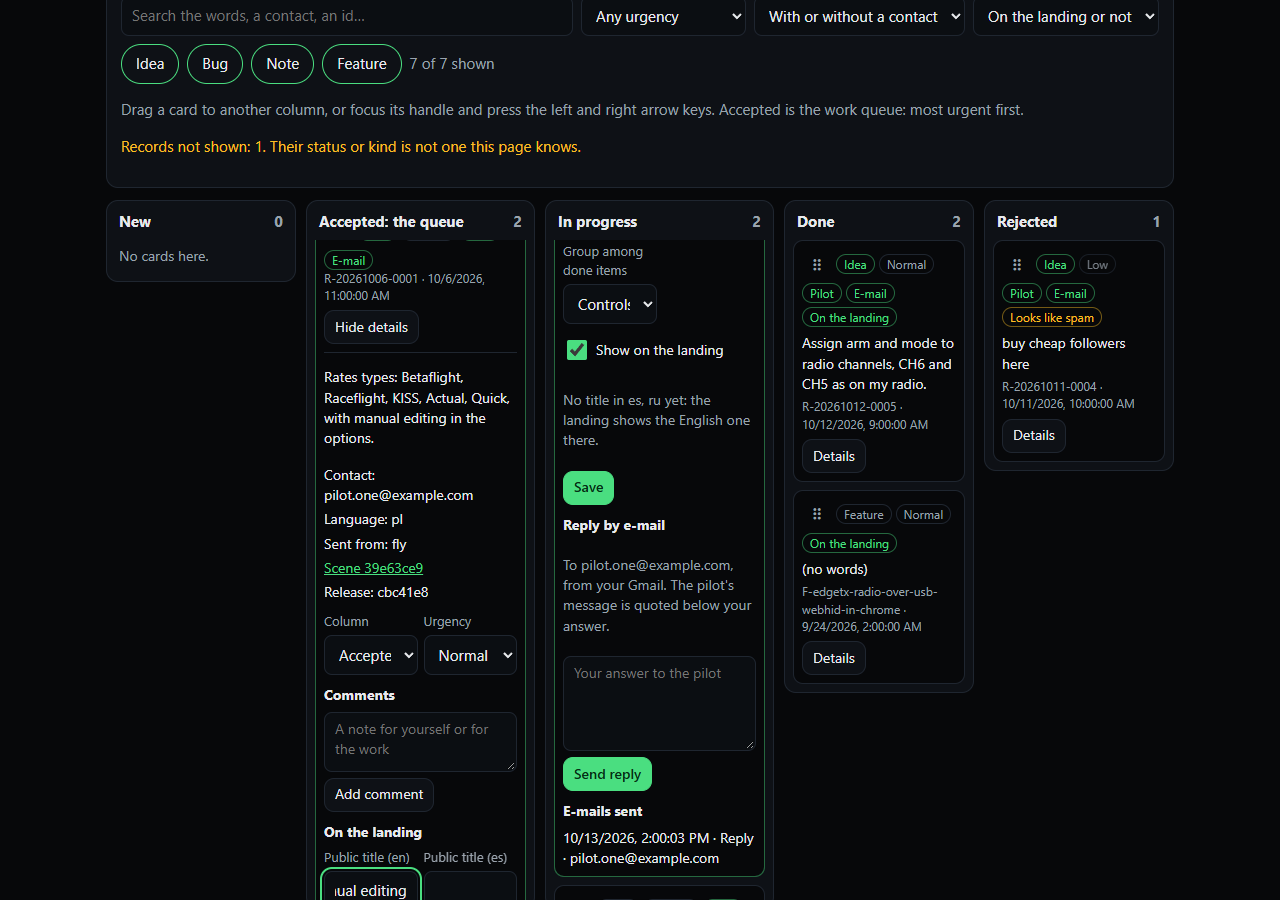
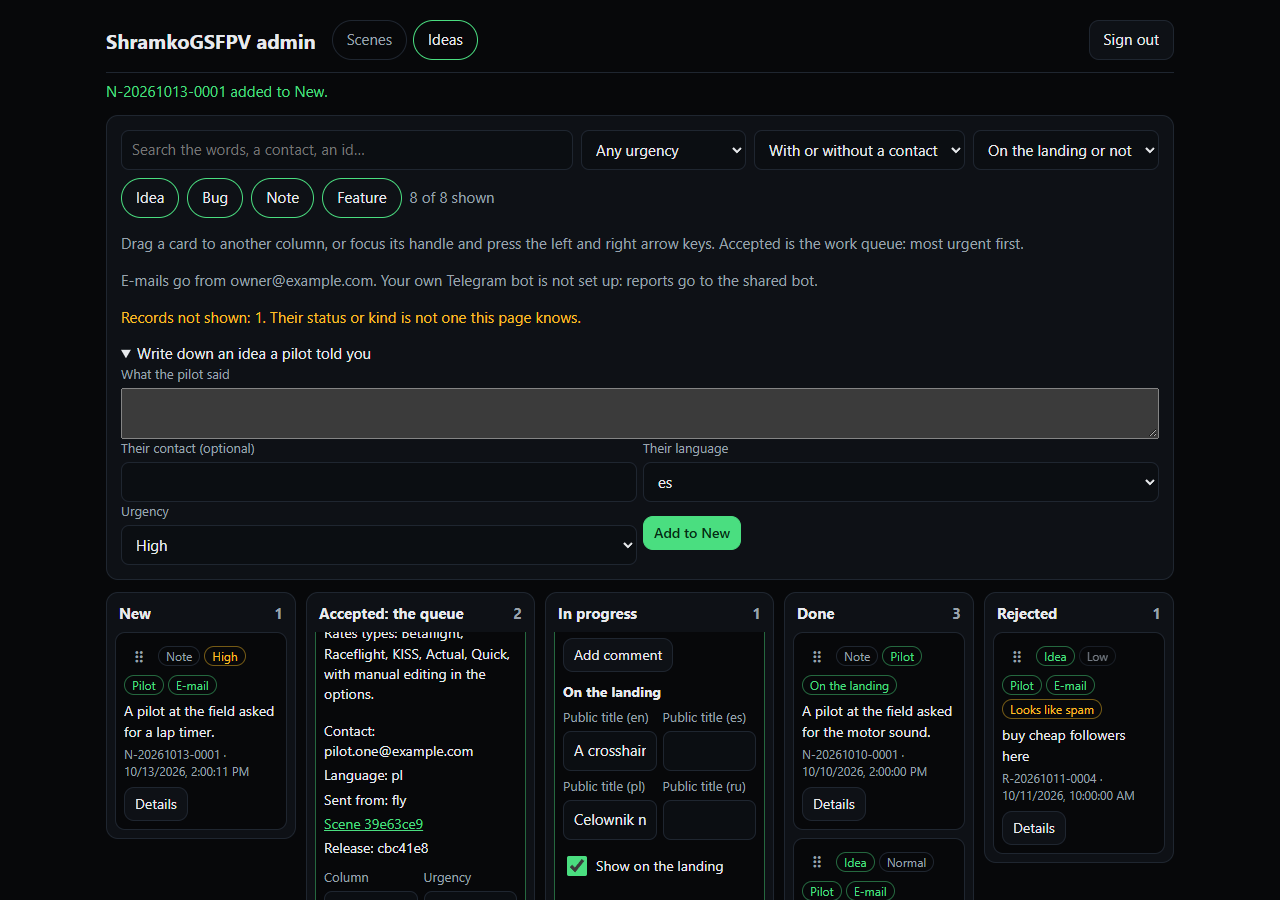
admin Ideas tab in a browser against lane B's real API (mock): drag, arrows and the Column select send ideas/update; Done asks what was done, ideas/done makes the draft, Not now leaves it a draft, only Send queues it (send-done); reply queued then Cancel; note form; landing chip and English-title ru

diff --git a/tools/bench/src/accept-v07-ideas.ts b/tools/bench/src/accept-v07-ideas.ts
@@ -1,10 +1,12 @@
 // v0.7 owner's item 3, the admin side, end to end in a browser: the admin page (apps/fly/admin on the Vite
 // dev server, started here) with /api/** answered by the mock of lane B's ideas API (src/ideas-mock.ts,
-// the contract of docs/wip/v07-c.md). What the owner does on the kanban must reach the API as exactly
-// the calls the contract names, and nothing else; every check has a negative control.
+// the contract of docs/wip/v07-b.md "Contracts for lane C"). What the owner does on the kanban must reach
+// the API as exactly the calls the contract names, and nothing else: above all, no e-mail is queued
+// without the owner's own Send (the thank-you) or reply button, and every check has a negative control.
 //   npx tsx src/accept-v07-ideas.ts                      (from tools/bench; FLY_PORT=5364 by default)
-// No GPU needed (no drawing). Evidence: evidence/<date>/v07-ideas-admin.json + 2 PNG.
-// Not covered here: lane B's real server (run accept-v06-admin.ts after the v0.7 merge for that).
+// Draws nothing heavy, but holds the shared GPU lock like every browser run on this PC (the caller takes
+// it). Evidence: evidence/<date>/v07-ideas-admin.json + 2 PNG.
+// Not covered here: lane B's real server (accept-v06-admin.ts drives the Ideas tab against it after the merge).
 import { spawn } from 'node:child_process';
 import type { ChildProcess } from 'node:child_process';
 import { mkdirSync } from 'node:fs';
@@ -25,6 +27,14 @@ function check(name: string, ok: boolean, control = false): void {
     checks.push({ name, ok, control });
     console.log(`${ok ? 'ok  ' : 'FAIL'} ${control ? '[control] ' : ''}${name}`);
 }
+
+/** JSON with object keys sorted, so a body is compared by its content, not by the order it was built in. */
+function canon(v: unknown): string {
+    const sort = (x: unknown): unknown => (Array.isArray(x) ? x.map(sort)
+        : x && typeof x === 'object' ? Object.fromEntries(Object.entries(x as Record<string, unknown>).sort(([a], [b]) => a.localeCompare(b)).map(([k, y]) => [k, sort(y)])) : x);
+    return JSON.stringify(sort(v));
+}
+const same = (a: unknown, b: unknown): boolean => canon(a) === canon(b);
 
 async function until(url: string, ms = 60000): Promise<void> {
     const t0 = Date.now();
@@ -53,6 +63,9 @@ const card = (id: string): string => `[data-idea="${id}"]`;
 const statusOf = (page: Page, id: string): Promise<string | null> => page.$eval(card(id), (e) => e.getAttribute('data-status')).catch(() => null);
 const counts = (page: Page): Promise<Record<string, string>> =>
     page.$$eval('[data-count]', (els) => Object.fromEntries(els.map((e) => [e.getAttribute('data-count') ?? '', e.textContent ?? ''])));
+const ids = (page: Page): Promise<(string | null)[]> => page.$$eval('[data-idea]', (els) => els.map((e) => e.getAttribute('data-idea')));
+/** POSTs to ideas routes since `from`, as [path, body] */
+const sentSince = (mock: IdeasMock, from: number): [string, unknown][] => mock.posts().slice(from).map((c) => [c.path, c.body]);
 /** wait until the mock has seen n POSTs to ideas routes */
 async function posts(mock: IdeasMock, n: number, ms = 10000): Promise<void> {
     const t0 = Date.now();
@@ -64,6 +77,9 @@ async function posts(mock: IdeasMock, n: number, ms = 10000): Promise<void> {
 /** wait until the card sits in that column and is no longer busy */
 const settled = (page: Page, id: string, status: string): Promise<unknown> =>
     page.waitForSelector(`${card(id)}[data-status="${status}"]:not([aria-busy])`, { timeout: 10000 });
+const quiet = (page: Page, id: string): Promise<unknown> => page.waitForSelector(`${card(id)}:not([aria-busy])`, { timeout: 10000 });
+const dialogStep = (page: Page): Promise<string | null> =>
+    page.evaluate(() => document.querySelector('[data-testid=thanks-dialog] [data-step]:not([hidden])')?.getAttribute('data-step') ?? null);
 
 async function main(): Promise<void> {
     const dir = join(REPO, 'evidence', today());
@@ -89,17 +105,17 @@ async function main(): Promise<void> {
     await page.waitForSelector('[data-testid=idea-board] [data-idea]');
     const c0 = await counts(page);
     results.countsAtStart = c0;
-    check('five columns with their counts (New 2, Accepted 1, In progress 2, Done 1, Rejected 1)', JSON.stringify(c0) === JSON.stringify({ new: '2', accepted: '1', in_progress: '2', done: '1', rejected: '1' }));
-    check('the record with an unknown status is counted, not placed', (await page.textContent('[data-testid=idea-unreadable]'))?.includes('1') === true && !(await page.$(card('X-unknown-status'))));
+    check('five columns with their counts (New 2, Accepted 1, In progress 2, Done 1, Rejected 1)', same(c0, { new: '2', accepted: '1', in_progress: '2', done: '1', rejected: '1' }));
+    check('the record with an unknown status is counted, not placed', (await page.textContent('[data-testid=idea-unreadable]'))?.includes('1') === true && !(await page.$(card('R-20261012-0006'))), true);
     check('the old Reports tab is gone', !(await page.$('[data-tab=reports]')));
+    check('the mail setup line names the sender', ((await page.textContent('[data-testid=idea-setup]')) ?? '').includes('owner@example.com'));
 
-    // drag New -> Accepted: exactly one status call with the right body
+    // drag New -> Accepted: exactly one update call with the right body
     let before = mock.posts().length;
     await page.dragAndDrop(card('R-20261006-0001'), '[data-column=accepted]');
     await settled(page, 'R-20261006-0001', 'accepted');
-    const drag = mock.posts().slice(before);
-    results.dragCalls = drag;
-    check('drag to Accepted sends one POST ideas/status {id, status: accepted}', JSON.stringify(drag) === JSON.stringify([{ method: 'POST', path: 'ideas/status', body: { id: 'R-20261006-0001', status: 'accepted' } }]));
+    results.dragCalls = sentSince(mock, before);
+    check('drag to Accepted sends one POST ideas/update {id, status: accepted}', same(sentSince(mock, before), [['ideas/update', { id: 'R-20261006-0001', status: 'accepted' }]]));
     before = mock.posts().length;
     await page.dragAndDrop(card('R-20261006-0001'), '[data-column=accepted]');
     await sleep(400);
@@ -113,59 +129,73 @@ async function main(): Promise<void> {
     check('ArrowLeft in New sends nothing (edge)', mock.posts().length === before, true);
     await page.keyboard.press('ArrowRight');
     await settled(page, 'R-20261008-0003', 'accepted');
-    check('ArrowRight on the handle moves the card to the next column', JSON.stringify(mock.posts().slice(before)) === JSON.stringify([{ method: 'POST', path: 'ideas/status', body: { id: 'R-20261008-0003', status: 'accepted' } }]));
+    check('ArrowRight on the handle moves the card to the next column', same(sentSince(mock, before), [['ideas/update', { id: 'R-20261008-0003', status: 'accepted' }]]));
     check('the focus stays on the moved card\'s handle', await page.evaluate(() => document.activeElement?.closest('[data-idea]')?.getAttribute('data-idea') === 'R-20261008-0003' && document.activeElement.classList.contains('handle')));
 
-    // a pilot's idea with an e-mail reaches Done: the draft opens, nothing is sent until Send
-    await page.focus(`${card('R-20261012-0005')} .handle`);
+    // a pilot's idea with an e-mail reaches Done: the dialog asks what was done; nothing is sent until Send
+    const pid = 'R-20261012-0005';
+    await page.focus(`${card(pid)} .handle`);
     before = mock.posts().length;
     await page.keyboard.press('ArrowRight');
-    await page.waitForSelector('[data-testid=thanks-dialog] [data-field=thanks-body]');
+    await page.waitForSelector('[data-testid=thanks-dialog] [data-field=thanks-summary]');
+    await settled(page, pid, 'done');
+    check('Done opens the thank-you dialog at "what was done", after one status call and no e-mail', (await dialogStep(page)) === 'summary'
+        && same(sentSince(mock, before), [['ideas/update', { id: pid, status: 'done' }]]) && mock.mails().length === 0);
+    before = mock.posts().length;
+    await page.click('[data-action=thanks-make]');
+    await sleep(300);
+    check('"Make the e-mail" with nothing written sends nothing', mock.posts().length === before, true);
+    await page.fill('[data-field=thanks-summary]', 'Funkcje kanalow radia sa juz w symulatorze: ARM i tryb na CH5 i CH6.');
+    await page.click('[data-action=thanks-make]');
     await page.waitForFunction(() => (document.querySelector('[data-field=thanks-body]') as HTMLTextAreaElement | null)?.value.length);
-    const afterDone = mock.posts().slice(before).map((c) => c.path);
-    results.doneCalls = afterDone;
-    check('Done opens the thank-you draft (status, then thanks/draft) and sends nothing', JSON.stringify(afterDone) === JSON.stringify(['ideas/status', 'ideas/thanks/draft']));
+    results.doneCalls = sentSince(mock, before);
+    check('the summary goes in the pilot\'s language to ideas/done, and the server\'s draft is shown', (await dialogStep(page)) === 'draft'
+        && same(sentSince(mock, before), [['ideas/done', { id: pid, summary: { pl: 'Funkcje kanalow radia sa juz w symulatorze: ARM i tryb na CH5 i CH6.' } }]])
+        && (await page.inputValue('[data-field=thanks-body]')).includes('Funkcje kanalow radia'));
     check('the draft is addressed to the pilot\'s e-mail', (await page.inputValue('[data-field=thanks-to]')) === 'pilot.two@example.com');
+    check('the draft is only a draft (nothing queued)', same(mock.mails().map((m) => m.state), ['draft']), true);
+    before = mock.posts().length;
     await page.click('[data-action=thanks-later]');
     await page.waitForSelector('[data-testid=thanks-dialog]', { state: 'detached' });
-    check('Not now sends nothing', !mock.posts().some((c) => c.path === 'ideas/thanks/send') && (mock.ideas.find((i) => i.id === 'R-20261012-0005')!.mails as unknown[]).length === 0, true);
-    await page.click(`${card('R-20261012-0005')} [data-action=thanks]`);
-    await page.waitForFunction(() => (document.querySelector('[data-field=thanks-body]') as HTMLTextAreaElement | null)?.value.length);
-    await page.fill('[data-field=thanks-subject]', 'Channel functions are in the simulator');
-    before = mock.posts().length;
+    check('Not now sends nothing and leaves the draft a draft', mock.posts().length === before && same(mock.mails().map((m) => m.state), ['draft']), true);
+    await page.click(`${card(pid)} [data-action=thanks]`);
+    await page.waitForSelector('[data-testid=thanks-dialog] [data-step=draft]:not([hidden])');
+    check('the card reopens the waiting draft without a call', mock.posts().length === before && (await page.inputValue('[data-field=thanks-to]')) === 'pilot.two@example.com');
     await page.click('[data-action=thanks-send]');
     await page.waitForSelector('[data-testid=thanks-dialog]', { state: 'detached' });
-    const sent = mock.posts().slice(before);
-    check('Send sends the thank-you once, with the subject as edited', sent.length === 1 && sent[0].path === 'ideas/thanks/send' && sent[0].body?.subject === 'Channel functions are in the simulator');
-    check('after it the card no longer offers a thank-you', !(await page.$(`${card('R-20261012-0005')} [data-action=thanks]`)));
+    await quiet(page, pid);
+    results.sendCalls = sentSince(mock, before);
+    check('Send queues the thank-you once (ideas/send-done {id})', same(sentSince(mock, before), [['ideas/send-done', { id: pid }]]) && same(mock.mails().map((m) => m.state), ['queued']));
+    check('after it the card no longer offers a thank-you', !(await page.$(`${card(pid)} [data-action=thanks]`)));
 
-    // a failing server: the card stays where it was and the owner is told
-    mock.failNext = { path: 'ideas/status', status: 500 };
+    // a failing server: the card stays where it was and the owner is told; then a note without an e-mail
+    // reaches Done without any thank-you dialog
+    mock.failNext = { path: 'ideas/update', status: 500 };
     await page.focus(`${card('N-20261010-0001')} .handle`);
     await page.keyboard.press('ArrowRight');
     await page.waitForSelector('.note.bad');
     check('a refused move leaves the card in its column and says why', (await statusOf(page, 'N-20261010-0001')) === 'in_progress' && /test-failure/.test((await page.textContent('.note')) ?? ''), true);
+    await page.focus(`${card('N-20261010-0001')} .handle`);
+    await page.keyboard.press('ArrowRight');
+    await settled(page, 'N-20261010-0001', 'done');
+    await sleep(300);
+    check('Done for a note without an e-mail opens no thank-you dialog', !(await page.$('[data-testid=thanks-dialog]')), true);
 
     // filters and search
     await page.fill('[data-testid=idea-search]', 'crosshair centre');
     await sleep(100);
-    const found = await page.$$eval('[data-idea]', (els) => els.map((e) => e.getAttribute('data-idea')));
-    check('search keeps only the card with every word', JSON.stringify(found) === JSON.stringify(['R-20261006-0002']));
+    check('search keeps only the card with every word', same(await ids(page), ['R-20261006-0002']));
     await page.fill('[data-testid=idea-search]', 'crosshair motor');
     await sleep(100);
     check('a word found nowhere empties the board', (await page.$$('[data-idea]')).length === 0, true);
     await page.fill('[data-testid=idea-search]', '');
-    await page.click('[data-kind=feature]');
-    await page.click('[data-kind=note]');
-    await page.click('[data-kind=idea]');
+    for (const k of ['feature', 'note', 'idea']) await page.click(`[data-kind=${k}]`);
     await sleep(100);
-    const bugs = await page.$$eval('[data-idea]', (els) => els.map((e) => e.getAttribute('data-idea')));
-    check('kind toggles: only bugs left', JSON.stringify(bugs) === JSON.stringify(['R-20261008-0003']));
+    check('kind toggles: only bugs left', same(await ids(page), ['R-20261008-0003']));
     for (const k of ['feature', 'note', 'idea']) await page.click(`[data-kind=${k}]`);
     await page.selectOption('[data-filter=contact]', 'no');
     await sleep(100);
-    const noContact = (await page.$$eval('[data-idea]', (els) => els.map((e) => e.getAttribute('data-idea')))).sort();
-    check('contact filter: the cards without a contact', JSON.stringify(noContact) === JSON.stringify(['F-edgetx-radio-over-usb-webhid-in-chrome', 'N-20261010-0001', 'R-20261008-0003']));
+    check('contact filter: the cards without a contact', same((await ids(page)).sort(), ['F-edgetx-radio-over-usb-webhid-in-chrome', 'N-20261010-0001', 'R-20261008-0003']));
     await page.selectOption('[data-filter=contact]', 'any');
 
     // the bug's card: everything the pilot sent, technical details to open and to download
@@ -179,7 +209,7 @@ async function main(): Promise<void> {
     check('the card shows what the pilot sent (language, page, scene, release)', ['en', 'fly', '887f27aa', 'f92d98b'].every((x) => sentFields.includes(x)));
     check('no e-mail left: no reply box, a reason instead', !(await page.$(`${card('R-20261008-0003')} [data-field=reply-text]`)) && !!(await page.$(`${card('R-20261008-0003')} [data-field=reply] p`)), true);
 
-    // a card with a contact: reply, comment, urgency, public title, the Column select
+    // a card with a contact: reply (then Cancel in the undo window), comment, urgency, public title, the Column select
     const id2 = 'R-20261006-0002';
     await page.click(`${card(id2)} [data-action=details]`);
     check('the contact itself is on the card', ((await page.textContent(`${card(id2)} [data-field=contact]`)) ?? '').includes('pilot.one@example.com or @pilotone on Telegram'));
@@ -187,35 +217,58 @@ async function main(): Promise<void> {
     await page.fill(`${card(id2)} [data-field=reply-text]`, 'Thanks! It is queued for the next build.');
     await page.click(`${card(id2)} [data-action=reply]`);
     await posts(mock, before + 1);
-    await page.waitForSelector(`${card(id2)}:not([aria-busy]) [data-field=comment]`);
+    await page.waitForSelector(`${card(id2)}:not([aria-busy]) [data-field=mails] [data-state=queued] [data-action=mail-cancel]`);
+    check('the reply is queued behind the undo window and the owner is told so', ((await page.textContent('.note')) ?? '').includes('pilot.one@example.com') && mock.mails('queued').some((m) => m.kind === 'reply'));
+    const replyId = await page.getAttribute(`${card(id2)} [data-field=mails] [data-state=queued] [data-action=mail-cancel]`, 'data-mail');
+    await page.click(`${card(id2)} [data-field=mails] [data-state=queued] [data-action=mail-cancel]`);
+    await posts(mock, before + 2);
+    await page.waitForSelector(`${card(id2)}:not([aria-busy]) [data-field=mails] [data-state=cancelled]`);
+    check('Cancel on the queued reply stops it', mock.mails().find((m) => m.id === replyId)?.state === 'cancelled');
     await page.fill(`${card(id2)} [data-field=comment]`, 'With the HUD work');
     await page.click(`${card(id2)} [data-action=comment]`);
-    await posts(mock, before + 2);
+    await posts(mock, before + 3);
     await page.waitForSelector(`${card(id2)}:not([aria-busy]) [data-field=urgency]`);
     await page.selectOption(`${card(id2)} [data-field=urgency]`, 'urgent');
     await page.waitForSelector(`${card(id2)}:not([aria-busy]) [data-chip=urgency].u-urgent`);
     await page.fill(`${card(id2)} [data-field=title-pl]`, 'Celownik na srodku obrazu');
-    await page.selectOption(`${card(id2)} [data-field=group]`, 'controls');
     await page.click(`${card(id2)} [data-action=save-public]`);
-    await posts(mock, before + 4);
-    await page.waitForSelector(`${card(id2)}:not([aria-busy])`);
-    const edits = mock.posts().slice(before).map((c) => [c.path, c.body]);
-    results.cardCalls = edits;
-    check('reply, comment, urgency and public title each send their own call with their body', JSON.stringify(edits) === JSON.stringify([
+    await posts(mock, before + 5);
+    await quiet(page, id2);
+    results.cardCalls = sentSince(mock, before);
+    check('reply, cancel, comment, urgency and public title each send their own call with their body', same(sentSince(mock, before), [
         ['ideas/reply', { id: id2, text: 'Thanks! It is queued for the next build.' }],
-        ['ideas/comment', { id: id2, text: 'With the HUD work' }],
-        ['ideas/urgency', { id: id2, urgency: 'urgent' }],
-        ['ideas/public', { id: id2, title: { en: 'A crosshair in the centre of the view', pl: 'Celownik na srodku obrazu' }, roadmap: true, group: 'controls' }]
+        ['ideas/mail/cancel', { id: replyId }],
+        ['ideas/update', { id: id2, comment: 'With the HUD work' }],
+        ['ideas/update', { id: id2, urgency: 'urgent' }],
+        ['ideas/update', { id: id2, publicTitle: { en: 'A crosshair in the centre of the view', pl: 'Celownik na srodku obrazu' }, visible: true }]
     ]));
     await page.selectOption(`${card(id2)} [data-field=status]`, 'in_progress');
     await settled(page, id2, 'in_progress');
-    check('the Column select moves the card (touch)', mock.posts().at(-1)?.path === 'ideas/status' && mock.posts().at(-1)?.body?.status === 'in_progress');
+    check('the Column select moves the card (touch)', same(mock.posts().at(-1)?.body, { id: id2, status: 'in_progress' }));
 
-    // the landing switch needs an English title (control: the box is disabled without one)
+    // the landing: shown with an English title and a status the landing shows; the card says what is missing
+    check('a card with an English title in a shown status carries the landing chip', !!(await page.$(`${card(id2)} [data-chip=landing]`)));
+    check('without an English title no landing chip', !(await page.$(`${card('R-20261006-0001')} [data-chip=landing]`)), true);
     await page.click(`${card('R-20261006-0001')} [data-action=details]`);
-    check('without an English title the landing switch is off and disabled', await page.$eval(`${card('R-20261006-0001')} [data-field=roadmap]`, (e) => (e as HTMLInputElement).disabled && !(e as HTMLInputElement).checked), true);
+    const noteOf = (): Promise<string> => page.textContent(`${card('R-20261006-0001')} [data-field=public-note]`).then((s) => s ?? '');
+    const needTitle = await noteOf();
     await page.fill(`${card('R-20261006-0001')} [data-field=title-en]`, 'Rates types with manual editing');
-    check('with it the switch can be ticked', await page.$eval(`${card('R-20261006-0001')} [data-field=roadmap]`, (e) => !(e as HTMLInputElement).disabled));
+    const missing = await noteOf();
+    check('the card asks for the English title first, then names the languages still missing', /English/.test(needTitle) && missing !== needTitle && ['es', 'pl', 'ru'].every((l) => missing.includes(l)));
+
+    // the owner writes down an idea a pilot told him (item 8): nothing goes without words
+    await page.click('[data-testid=note-form] summary');
+    before = mock.posts().length;
+    await page.click('[data-action=note-add]');
+    await sleep(300);
+    check('an empty note sends nothing', mock.posts().length === before, true);
+    await page.fill('[data-field=note-text]', 'A pilot at the field asked for a lap timer.');
+    await page.fill('[data-field=note-contact]', 'pilot.three@example.com');
+    await page.selectOption('[data-field=note-lang]', 'es');
+    await page.selectOption('[data-field=note-urgency]', 'high');
+    await page.click('[data-action=note-add]');
+    await page.waitForSelector(`${card('N-20261013-0001')}[data-status=new]`);
+    check('the note goes to ideas/note and lands in New', same(sentSince(mock, before), [['ideas/note', { text: 'A pilot at the field asked for a lap timer.', contact: 'pilot.three@example.com', lang: 'es', urgency: 'high', kind: 'note' }]]));
 
     await page.screenshot({ path: join(dir, 'v07-ideas-admin-1280.png'), fullPage: false });
     // a phone: one column, nothing wider than the screen
@@ -230,6 +283,7 @@ async function main(): Promise<void> {
     await page.waitForSelector('[data-testid=scene-list]');
     check('the Scenes tab still opens', true);
     check('no page errors', errors.length === 0);
+    check('no e-mail went out on its own: one thank-you queued by Send, one reply cancelled', same(mock.mails().map((m) => [m.kind, m.state]).sort(), [['done', 'queued'], ['reply', 'cancelled']]));
     results.pageErrors = errors;
     results.calls = mock.calls.map((c) => `${c.method} ${c.path}`);
     await browser.close();

diff --git a/docs/wip/v07-c.md b/docs/wip/v07-c.md
@@ -85,7 +85,8 @@ diagnostics), not only whether a contact was left.
 - [x] accept-v06-admin Reports step -> Ideas tab against the real API (77bf4e2)
 - [x] site verify roadmap checks, 149/149 against a local build (b241c50)
 - [x] client, tab, mock and unit tests switched to lane B's real API (commit after b241c50), 26/26 unit tests
-- [~] browser harness tools/bench/src/accept-v07-ideas.ts rewritten for the real API, then re-run
-- [ ] accept-v06-admin Ideas step checked against the real paths (ideas/update)
+- [x] browser harness tools/bench/src/accept-v07-ideas.ts rewritten for the real API: 42/42 (12 controls)
+- [x] accept-v06-admin Ideas step: UI selectors and GET ideas only, unchanged by the switch (read, not run:
+  it needs lane B's server merged)
 - [ ] site verify re-run (public text under a title changed Roadmap.tsx)
 - [ ] gates: typecheck, vitest, api unittest, architecture, site i18n, catalog, B18
